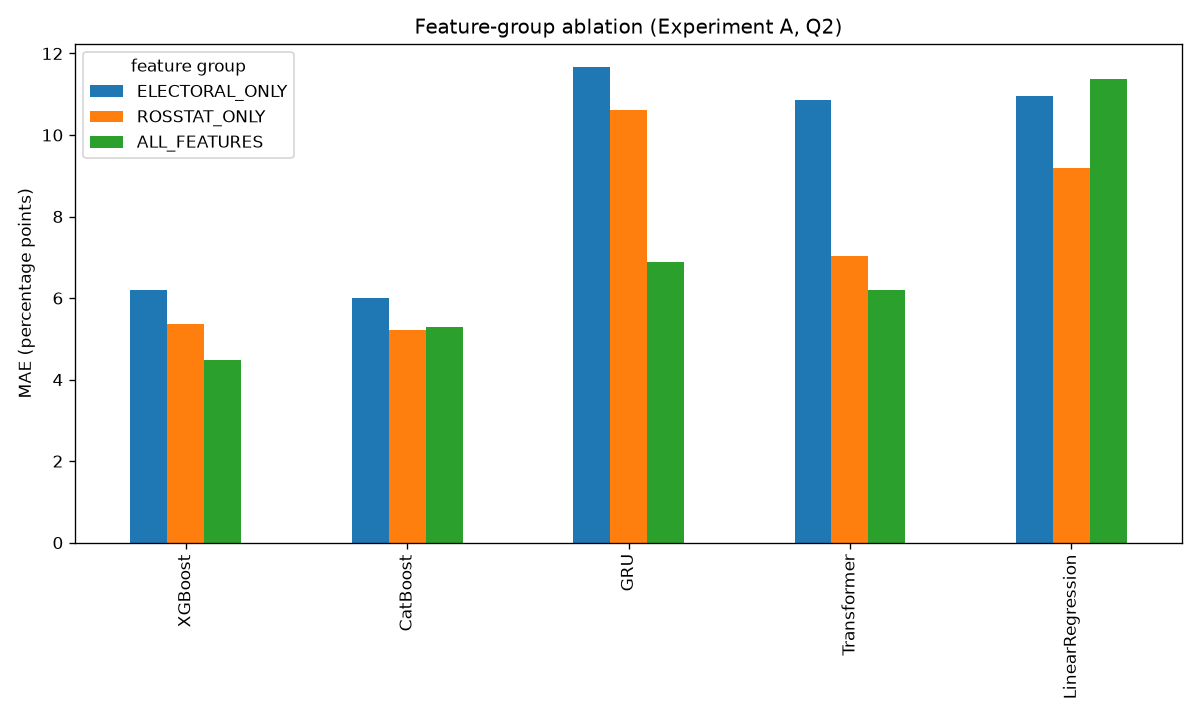
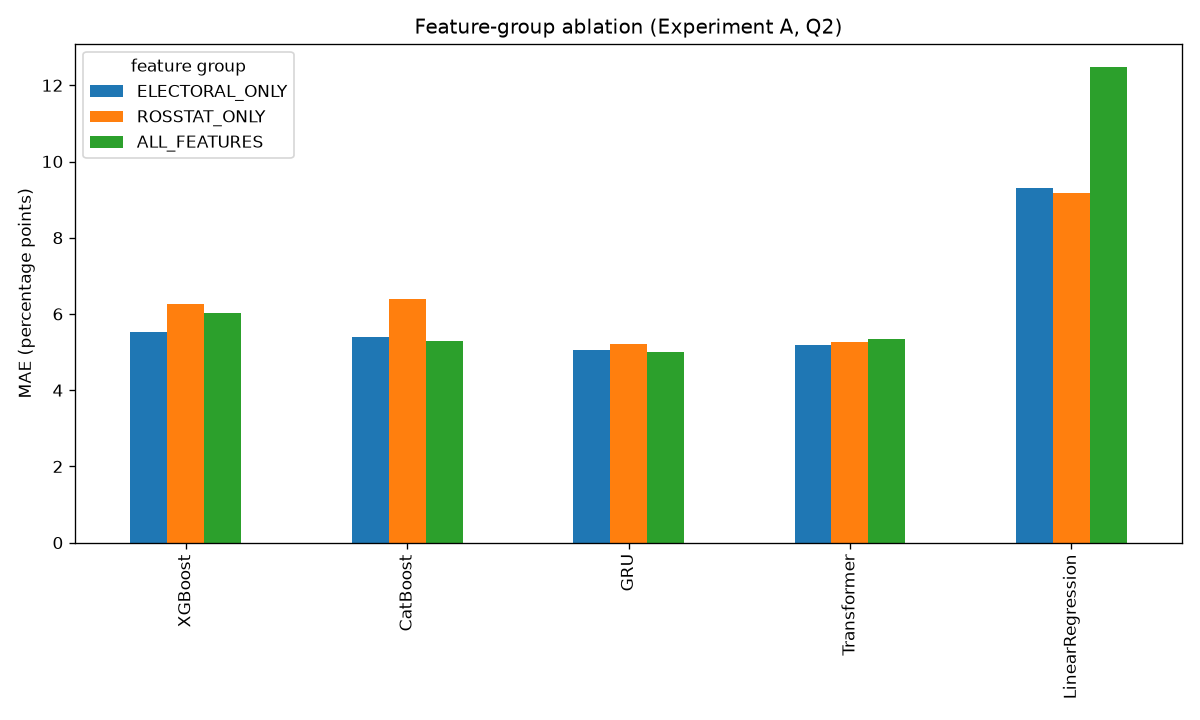
verify: final consistency pass — refresh stale docs/figures, drop superseded artifacts
Final end-to-end verification confirmed:
- pytest 42 passed; ruff check + format clean (mypy fails only on missing
  pandas/sklearn stubs and numpy-stubs syntax on Python 3.14 — env issue).
- Independent recompute: 2026 federal forecast from per-region predictions
  x valid-2021 RED weights = 52.76/16.14/10.35; WHM exp A test MAE from
  saved parquet = 4.04 (UR 5.19/KPRF 2.74/LDPR 4.21) — both match results/.

Changes:
- README: fix stale 'Transformer best temporal' claim (line 86) and stale
  status-section numbers (Transformer 6.20/6.70 -> 5.33/6.97; forecast
  49.8/13.0/10.9 -> 52.8/16.1/10.4).
- PROGRESS.md: update WHM (4.04/6.11), KNN (6.10/7.55), MLP (6.81/9.00,
  7.47/9.39), ensembles (6.40/8.85, 27.04/12.03), temporal MAE table and
  Q1-Q10 answers to current post-audit numbers.
- FINAL_MODEL_REPORT.md: drop reference to deleted Transformer forecast files.
- reports/figures/*.png: regenerated from current benchmark (was pre-decay-fix).
- scripts/visualization/generate_report.py: pick latest benchmark_all_*.csv
  instead of hardcoded 20260819.
- Delete superseded/stale artifacts: benchmark_all_20260819.csv and
  Transformer 2026 forecasts (old pipeline, normalized to 100%).

diff --git a/scripts/visualization/generate_report.py b/scripts/visualization/generate_report.py
@@ -91,7 +91,10 @@ def main():
     dirs = get_output_dirs()
     results_dir = dirs["results_dir"]
 
-    bench = pd.read_csv(results_dir / "benchmark_all_20260819.csv")
+    bench_files = sorted(results_dir.glob("benchmark_all_*.csv"))
+    if not bench_files:
+        raise FileNotFoundError("No benchmark_all_*.csv found in results/")
+    bench = pd.read_csv(bench_files[-1])
     feat = pd.read_csv(results_dir / "ablation_feature.csv")
     hist = pd.read_csv(results_dir / "ablation_history.csv")
 

diff --git a/README.md b/README.md
@@ -83,7 +83,7 @@ $$\text{MAE} = \frac{1}{n}\sum_{i=1}^{n} \left| y_i^{\text{true}} - y_i^{\text{p
 
 **Временные модели** (`GRU`, `LSTM`, `Transformer`) — единственные, кто смотрит на историю региона как на **последовательность** (2003 → 2007 → 2011 → …), а не как на «мешок признаков». Они учатся, какие прошлые годы важнее и как результат меняется со временем.
 - *GRU* и *LSTM* — рекуррентные сети с «памятью»: проходят историю шаг за шагом, запоминая важное и забывая лишнее.
-- *Transformer* — использует механизм **внимания (attention)**: сразу сравнивает все прошлые годы между собой и сам определяет, какие выборы наиболее информативны для прогноза. Лучшая из временных моделей: на «аномальном» 2021 обгоняет наивный бейзлайн, но в целом уступает историческим средним и XGBoost.
+- *Transformer* — использует механизм **внимания (attention)**: сразу сравнивает все прошлые годы между собой и сам определяет, какие выборы наиболее информативны для прогноза. По точности наравне с GRU/LSTM (разница в пределах 0.3 п.п.), но уступает историческим средним.
 
 ### Бейзлайны (наивные ориентиры)
 
@@ -320,11 +320,11 @@ trainingGOSDUMA/
 
 - ✅ **P0**: baselines + Linear + Trees + KNN на A/B по 3 фич-группам. Сводная таблица — `results/benchmark_all_*.csv`. Тесты и `ruff`-lint проходят.
 - ✅ **P1**: нейросети (`neural.py`, `run_neural.py`) — ответ на вопрос 5.
-- ✅ **P2/P3**: временные модели GRU/LSTM/Transformer (`temporal.py`, `run_temporal.py`) — ответ на вопрос 6; **Transformer (ALL) — лучшая временная модель** (A 6.20, B 6.70). В целом лучшие по MAE — исторические средние и XGBoost.
+- ✅ **P2/P3**: временные модели GRU/LSTM/Transformer (`temporal.py`, `run_temporal.py`) — ответ на вопрос 6; лучшие временные — GRU (5.01/6.98) и LSTM (5.11/6.90). В целом лучшие по MAE — исторические средние.
 - ✅ **Методология**: честные временные сплиты с валидационным годом (val), двухстадийный протокол (tuning на val → refit на train+val → test), президентские лаги 2024, федеральные веса из RED, temporal OOF ансамблей, независимые per-party регрессии.
 - ✅ **Абляция**: `make ablation` → `results/ablation_feature.csv` (вопрос 2) и `results/ablation_history.csv` (вопрос 3).
 - ✅ **Ансамбли** (вопрос 10): `WeightedEnsemble`/`StackingEnsemble` (`ensemble.py`) — не превосходят XGBoost и исторические средние.
-- ✅ **Прогноз 2026**: эксперименты C/D через `predict_2026.py` (лучшая модель — **WeightedHistoricalMean**, ALL). Федеральный прогноз (федеральные веса из RED, valid 2021 как прокси): ЕР 49.8 / КПРФ 13.0 / ЛДПР 10.9.
+- ✅ **Прогноз 2026**: эксперименты C/D через `predict_2026.py` (лучшая модель — **WeightedHistoricalMean**, ALL). Федеральный прогноз (федеральные веса из RED, valid 2021 как прокси): ЕР 52.8 / КПРФ 16.1 / ЛДПР 10.4.
 - ✅ **Отчёт и визуализация**: `reports/FINAL_MODEL_REPORT.md` и графики (`reports/figures/`, `make report`).
 - ✅ **Исследовательские вопросы Q4/Q7/Q8/Q9**: `scripts/evaluation/research_questions.py` → `results/q{4,7,8,9}_*` (линейность vs нелинейность, партии по сложности, систематические ошибки по регионам, устойчивость по seed-ам).
 - ⏳ **Возможные доработки**: пересчёт долей в мандаты (seat allocation), bootstrap-CI для устойчивости MAE, SHAP-анализ важности признаков, tuning гиперпараметров нейросетей/деревьев.
